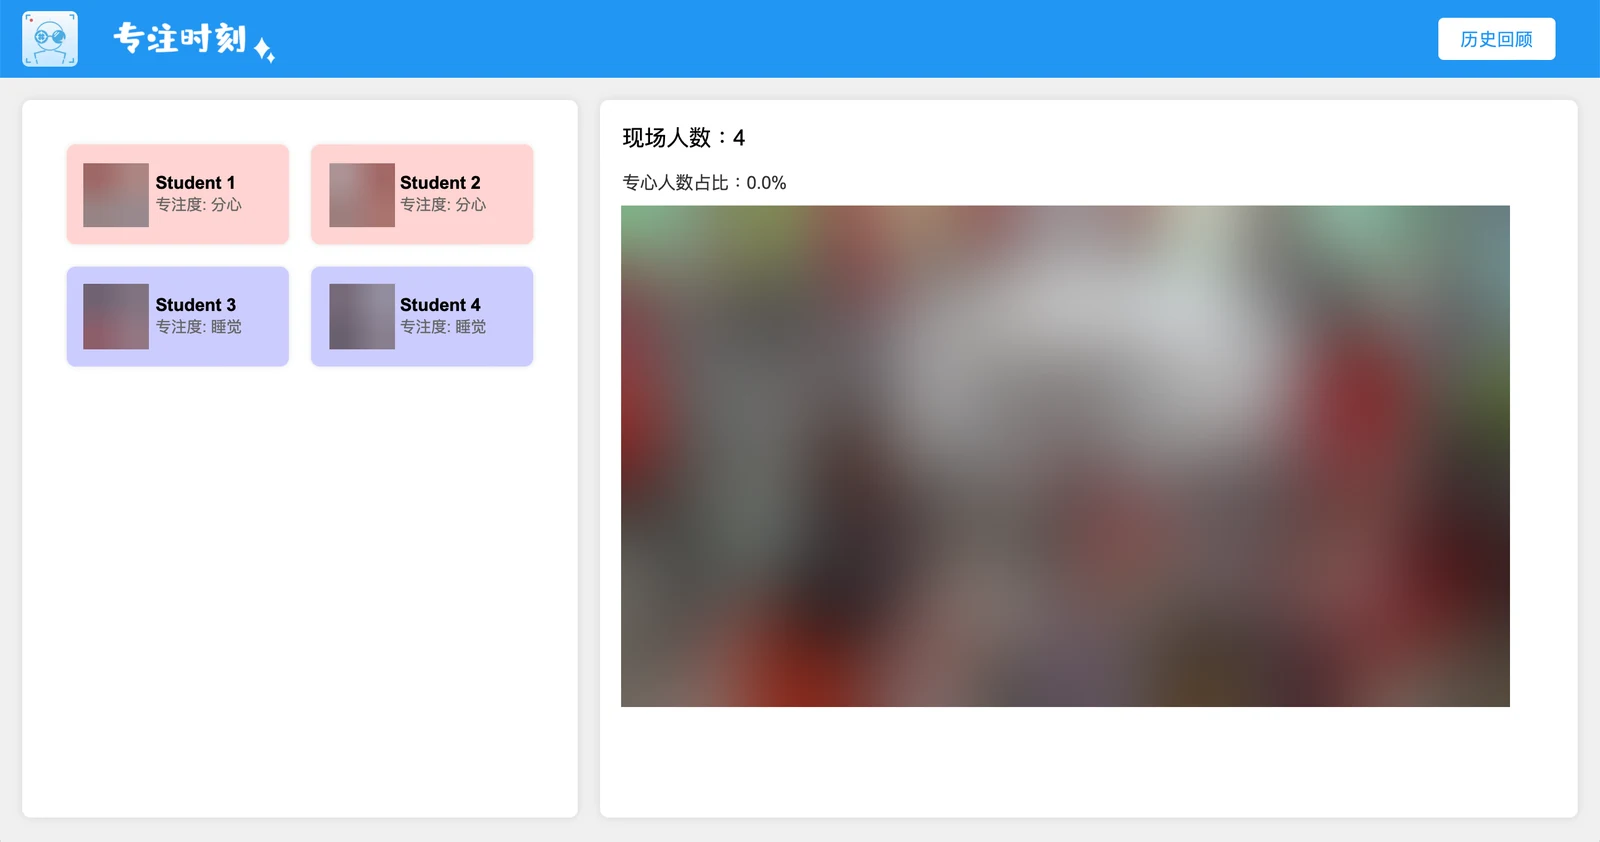
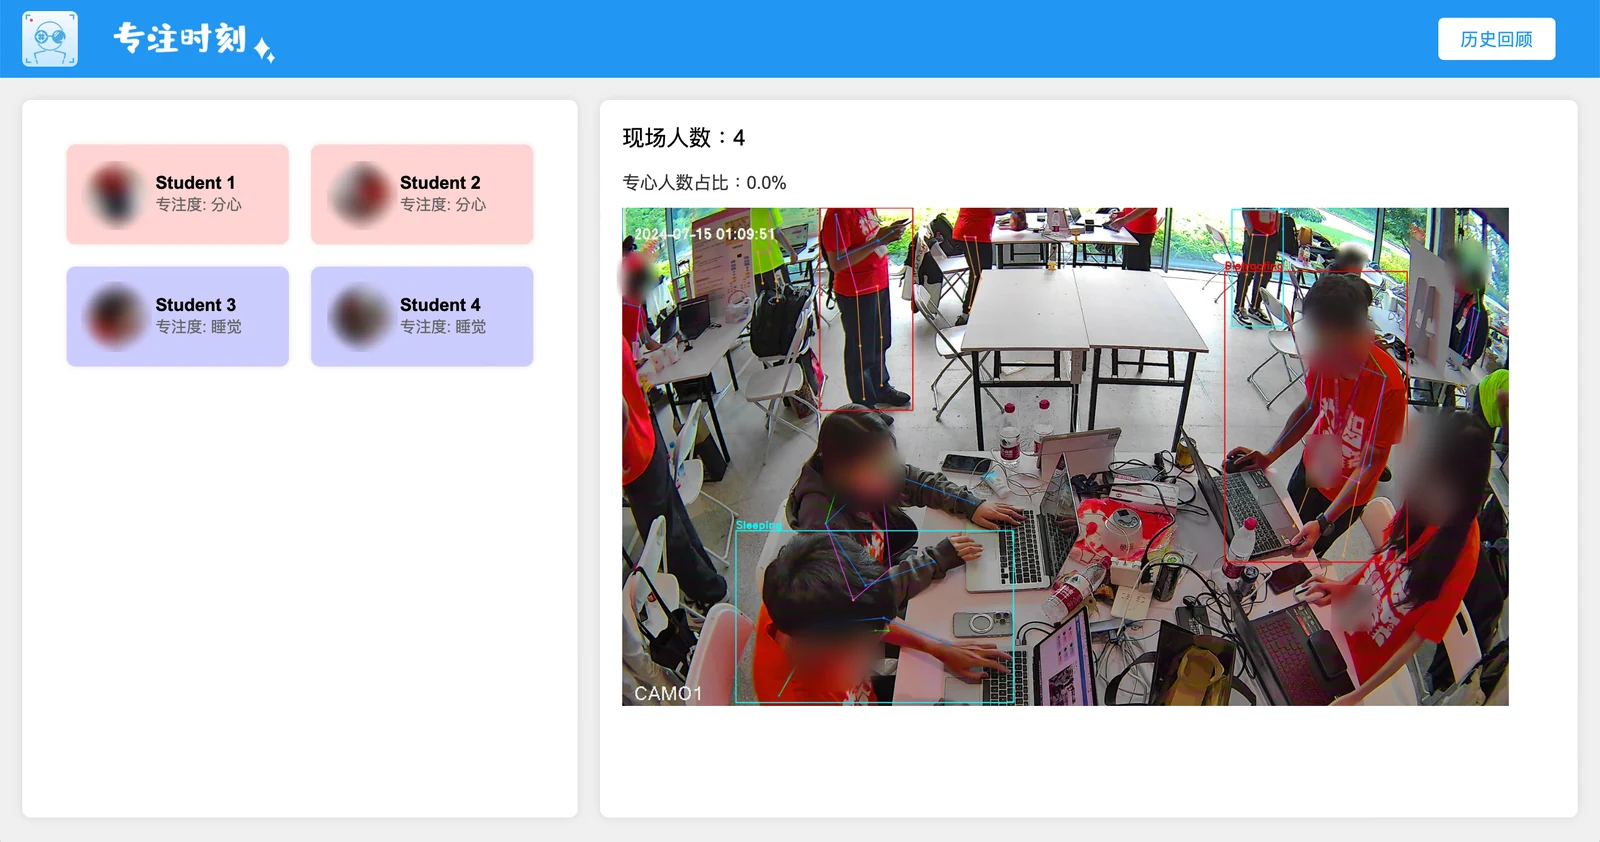
feat: per-language cover screens, new NTUTBox shots, face-only blur for Focus Moment, phones and browser covers for AR Campus Tour and asr-server

diff --git a/tests/unit/schemas.test.ts b/tests/unit/schemas.test.ts
@@ -69,6 +69,8 @@ describe('projectMetaSchema cover variants', () => {
     ['browser without coverAlt', { ...base, coverStyle: 'browser', coverTagline: tagline, screens: ['a.png'] }],
     ['browser without tagline', { ...base, coverStyle: 'browser', coverAlt: validMeta.coverAlt, screens: ['a.png'] }],
     ['coverFramed outside phones', { ...base, coverStyle: 'browser', coverTagline: tagline, coverAlt: validMeta.coverAlt, screens: ['a.png'], coverFramed: false }],
+    ['per-locale screens missing a locale', { ...base, coverStyle: 'phones', coverTagline: tagline, coverAlt: validMeta.coverAlt, screens: { zh: ['a.png', 'b.png'] } }],
+    ['per-locale screens with a wrong count', { ...base, coverStyle: 'phones', coverTagline: tagline, coverAlt: validMeta.coverAlt, screens: { zh: ['a.png', 'b.png'], en: ['a.png'] } }],
     ['schematic without tagline', { ...base, coverStyle: 'schematic' }],
     ['type without tagline', { ...base, coverStyle: 'type' }],
     ['type with an image cover', { ...validMeta, coverStyle: 'type', coverTagline: tagline }],
@@ -81,6 +83,7 @@ describe('projectMetaSchema cover variants', () => {
   it.each([
     ['phones', { ...base, coverStyle: 'phones', coverTagline: tagline, coverAlt: validMeta.coverAlt, screens: ['a.png', 'b.png'] }],
     ['phones (unframed)', { ...base, coverStyle: 'phones', coverTagline: tagline, coverAlt: validMeta.coverAlt, screens: ['a.png', 'b.png'], coverFramed: false }],
+    ['phones with per-locale screens', { ...base, coverStyle: 'phones', coverTagline: tagline, coverAlt: validMeta.coverAlt, screens: { zh: ['a.png', 'b.png'], en: ['c.png', 'd.png'] } }],
     ['browser', { ...base, coverStyle: 'browser', coverTagline: tagline, coverAlt: validMeta.coverAlt, screens: ['a.png'] }],
     ['schematic', { ...base, coverStyle: 'schematic', coverTagline: tagline }],
     ['type', { ...base, coverStyle: 'type', coverTagline: tagline, coverTitle: { zh: '名稱', en: 'Name' }, coverTint: 'rose' }],

diff --git a/tests/e2e/covers.spec.ts b/tests/e2e/covers.spec.ts
@@ -103,6 +103,17 @@ test('ntutbox shots already show a device, so its phones cover is not framed twi
   await expect(cardOf(page, framed).locator('.cover-phone-bare')).toHaveCount(0);
 });
 
+test('per-locale screens: the zh and en ntutbox covers show different shots', async ({ page }) => {
+  const srcs = async (lang: string) => {
+    await page.goto(`/${lang}/work`);
+    return page.locator(`a.vt-card[href="/${lang}/work/ntutbox"] .cover-phone img`).evaluateAll((imgs) => imgs.map((i) => i.getAttribute('src')));
+  };
+  const [zh, en] = [await srcs('zh'), await srcs('en')];
+  expect(zh).toHaveLength(2);
+  expect(en).toHaveLength(2);
+  for (const src of zh) expect(en).not.toContain(src);
+});
+
 test('a browser cover shows one screenshot in a window that bleeds off the right edge', async ({ page }) => {
   const slug = slugsWith('browser')[0]!;
   await page.goto('/zh/work');
@@ -121,9 +132,9 @@ test('PhoneStrip: a focusable region of phone-framed screenshots that scrolls si
   const region = page.getByRole('region', { name: '北科盒子 App 截圖' });
   await expect(region).toHaveAttribute('tabindex', '0');
   // ntutbox's shots already include a device, so this strip opts out of our frame.
-  await expect(region.locator('.phone-bare img')).toHaveCount(4);
+  await expect(region.locator('.phone-bare img')).toHaveCount(6);
   await expect(region.locator('.phone-frame')).toHaveCount(0);
-  await expect(region.locator('figcaption')).toHaveText(['今日總覽', '成績與排名', '北科小郵差', '學校帳號登入']);
+  await expect(region.locator('figcaption')).toHaveText(['課表', '今日總覽', '選課與課程', '共同空堂', '成績與排名', '北科小郵差']);
   const overflow = await region.evaluate((el) => el.scrollWidth - el.clientWidth);
   expect(overflow).toBeGreaterThan(0);
   await region.focus();

diff --git a/src/lib/schemas.ts b/src/lib/schemas.ts
@@ -40,7 +40,13 @@ export function projectMetaSchema<C extends z.ZodType>(cover: C) {
       coverTagline: localized.optional(),
       coverTitle: localized.optional(),
       coverTint: z.enum(TINT_NAMES).optional(),
-      screens: z.array(cover).min(1).max(2).optional(),
+      // One list for both languages, or a list per language for shots taken in each UI language.
+      screens: z
+        .union([
+          z.array(cover).min(1).max(2),
+          z.object({ zh: z.array(cover).min(1).max(2), en: z.array(cover).min(1).max(2) }).strict(),
+        ])
+        .optional(),
       coverFramed: z.boolean().optional(),
       confidential: z.boolean().default(false),
       listOrder: z.number().int().optional(),
@@ -66,7 +72,8 @@ export function projectMetaSchema<C extends z.ZodType>(cover: C) {
       if (shots) {
         need('screens', style);
         need('coverAlt', style);
-        if (m.screens && m.screens.length !== shots) {
+        const lists = !m.screens ? [] : Array.isArray(m.screens) ? [m.screens] : [m.screens.zh, m.screens.en];
+        if (lists.some((list) => list.length !== shots)) {
           ctx.addIssue({ code: 'custom', message: `screens needs exactly ${shots} image(s) ${style}`, path: ['screens'] });
         }
       } else {

diff --git a/tests/unit/covers.test.ts b/tests/unit/covers.test.ts
@@ -76,6 +76,15 @@ describe('<Cover>', () => {
     });
     expect(html.match(/class="cover-phone cover-phone-bare"/g)).toHaveLength(2);
   });
+  it('phones: per-locale screens show the shots for the page language', async () => {
+    const meta = { coverStyle: 'phones', coverTagline: tagline, coverAlt: { zh: '兩張截圖', en: 'Two screenshots' }, screens: { zh: [fakeImage('zh-a'), fakeImage('zh-b')], en: [fakeImage('en-a'), fakeImage('en-b')] } };
+    const zh = await renderAstro(Cover, { lang: 'zh', context: 'card', project: project(meta) });
+    const en = await renderAstro(Cover, { lang: 'en', context: 'card', project: project(meta) });
+    expect(zh).toContain('zh-a');
+    expect(zh).not.toContain('en-a');
+    expect(en).toContain('en-b');
+    expect(en).not.toContain('zh-b');
+  });
   it('browser: the name beside one screenshot in a browser window, announced through coverAlt', async () => {
     const wide = { src: '/src/w.png', width: 1600, height: 842, format: 'png' as const };
     const html = await renderAstro(Cover, {

diff --git a/src/styles/global.css b/src/styles/global.css
@@ -161,9 +161,11 @@ a.bento-card:hover { border-color: var(--color-line-strong); }
   margin: 0; color: #f4f5f8;
   font-size: clamp(1.25rem, 10cqi, 4.5rem); font-weight: 800; letter-spacing: -0.03em; line-height: 1.02;
   text-wrap: balance;
+  /* keep CJK words whole so names break at their spaces ("AR / 校園導覽") */
+  word-break: keep-all; overflow-wrap: anywhere;
 }
 .cover-tagline {
-  margin: 2.6cqi 0 0; max-width: 34em;
+  margin: 2.6cqi 0 0; max-width: 34em; word-break: keep-all; overflow-wrap: anywhere;
   font: clamp(10px, 3.1cqi, 15px) / 1.5 var(--font-mono); color: #c9ced8;
 }
 .cover-tagline::before { content: ""; display: block; width: 2.4em; height: 2px; border-radius: 2px; background: var(--cover-accent); margin-bottom: 0.9em; }

diff --git a/src/lib/covers.ts b/src/lib/covers.ts
@@ -1,3 +1,4 @@
+import type { Locale } from './i18n';
 import type { Category } from './taxonomy';
 
 export const COVER_STYLES = ['image', 'phones', 'browser', 'schematic', 'type'] as const;
@@ -31,4 +32,10 @@ export function coverTint(meta: { coverTint?: Tint; categories: readonly Categor
 
 export function tintStyle(tint: Tint): string {
   return `--cover-glow:${TINTS[tint].glow};--cover-accent:${TINTS[tint].accent}`;
+}
+
+/** A cover's screenshots for one language: `screens` is either shared or split by language. */
+export function screensFor<C>(screens: C[] | { zh: C[]; en: C[] } | undefined, lang: Locale): C[] {
+  if (!screens) return [];
+  return Array.isArray(screens) ? screens : screens[lang];
 }

diff --git a/src/lib/projects.ts b/src/lib/projects.ts
@@ -25,7 +25,7 @@ export interface ProjectMetaData<C> {
   coverTagline?: Localized;
   coverTitle?: Localized;
   coverTint?: Tint;
-  screens?: C[];
+  screens?: C[] | { zh: C[]; en: C[] };
   coverFramed?: boolean;
   confidential: boolean;
   listOrder?: number;

diff --git a/README.md b/README.md
@@ -25,7 +25,7 @@ Set `E2E_PORT` to run the preview, e2e, link check and Lighthouse on a port othe
 ## Project covers and screenshots
 
 Each project's `meta.yaml` picks a `coverStyle`: `image` (default, uses `cover` + `coverAlt`), `type` (big name + `coverTagline`), `schematic` (a drawing in `src/components/covers/schematic/<slug>.astro`), `phones` or `browser`.
-To add app screenshots, put the files in `src/content/projects/<slug>/images/`, set `coverStyle: phones` with `screens: [./images/a.png, ./images/b.png]`, `coverTagline` and `coverAlt` (add `coverFramed: false` if the shots already show a device), and show the full set in the MDX with `<PhoneStrip label="…" items={[{ src, alt, caption }]} />`.
+To add app screenshots, put the files in `src/content/projects/<slug>/images/`, set `coverStyle: phones` with `screens: [./images/a.png, ./images/b.png]`, `coverTagline` and `coverAlt` (add `coverFramed: false` if the shots already show a device; `screens` can also be `{ zh: [...], en: [...] }` for shots in each UI language), and show the full set in the MDX with `<PhoneStrip label="…" items={[{ src, alt, caption }]} />`.
 For a web project, `coverStyle: browser` takes one landscape shot in `screens`; show the full set with `<Gallery>`. Strip metadata and blur real people's faces and personal data before committing screenshots.
 
 ## Content policy
